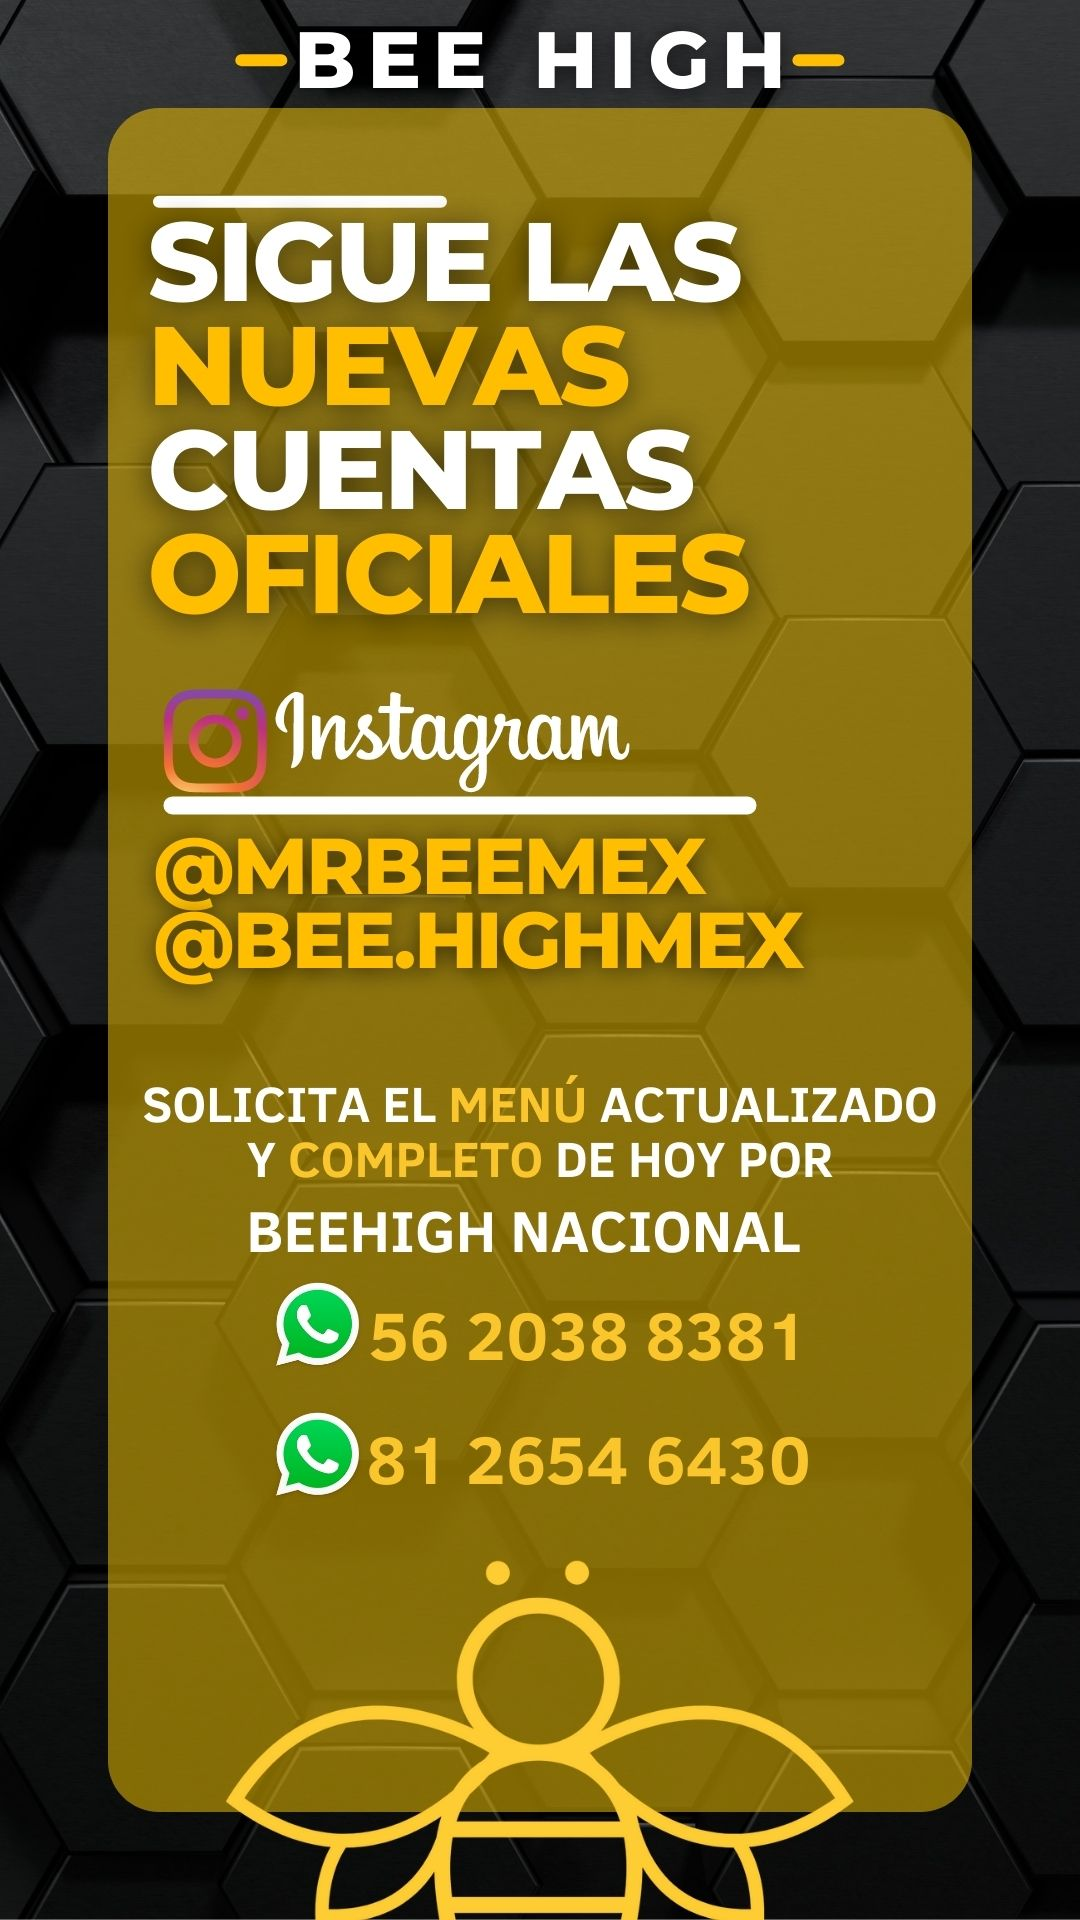
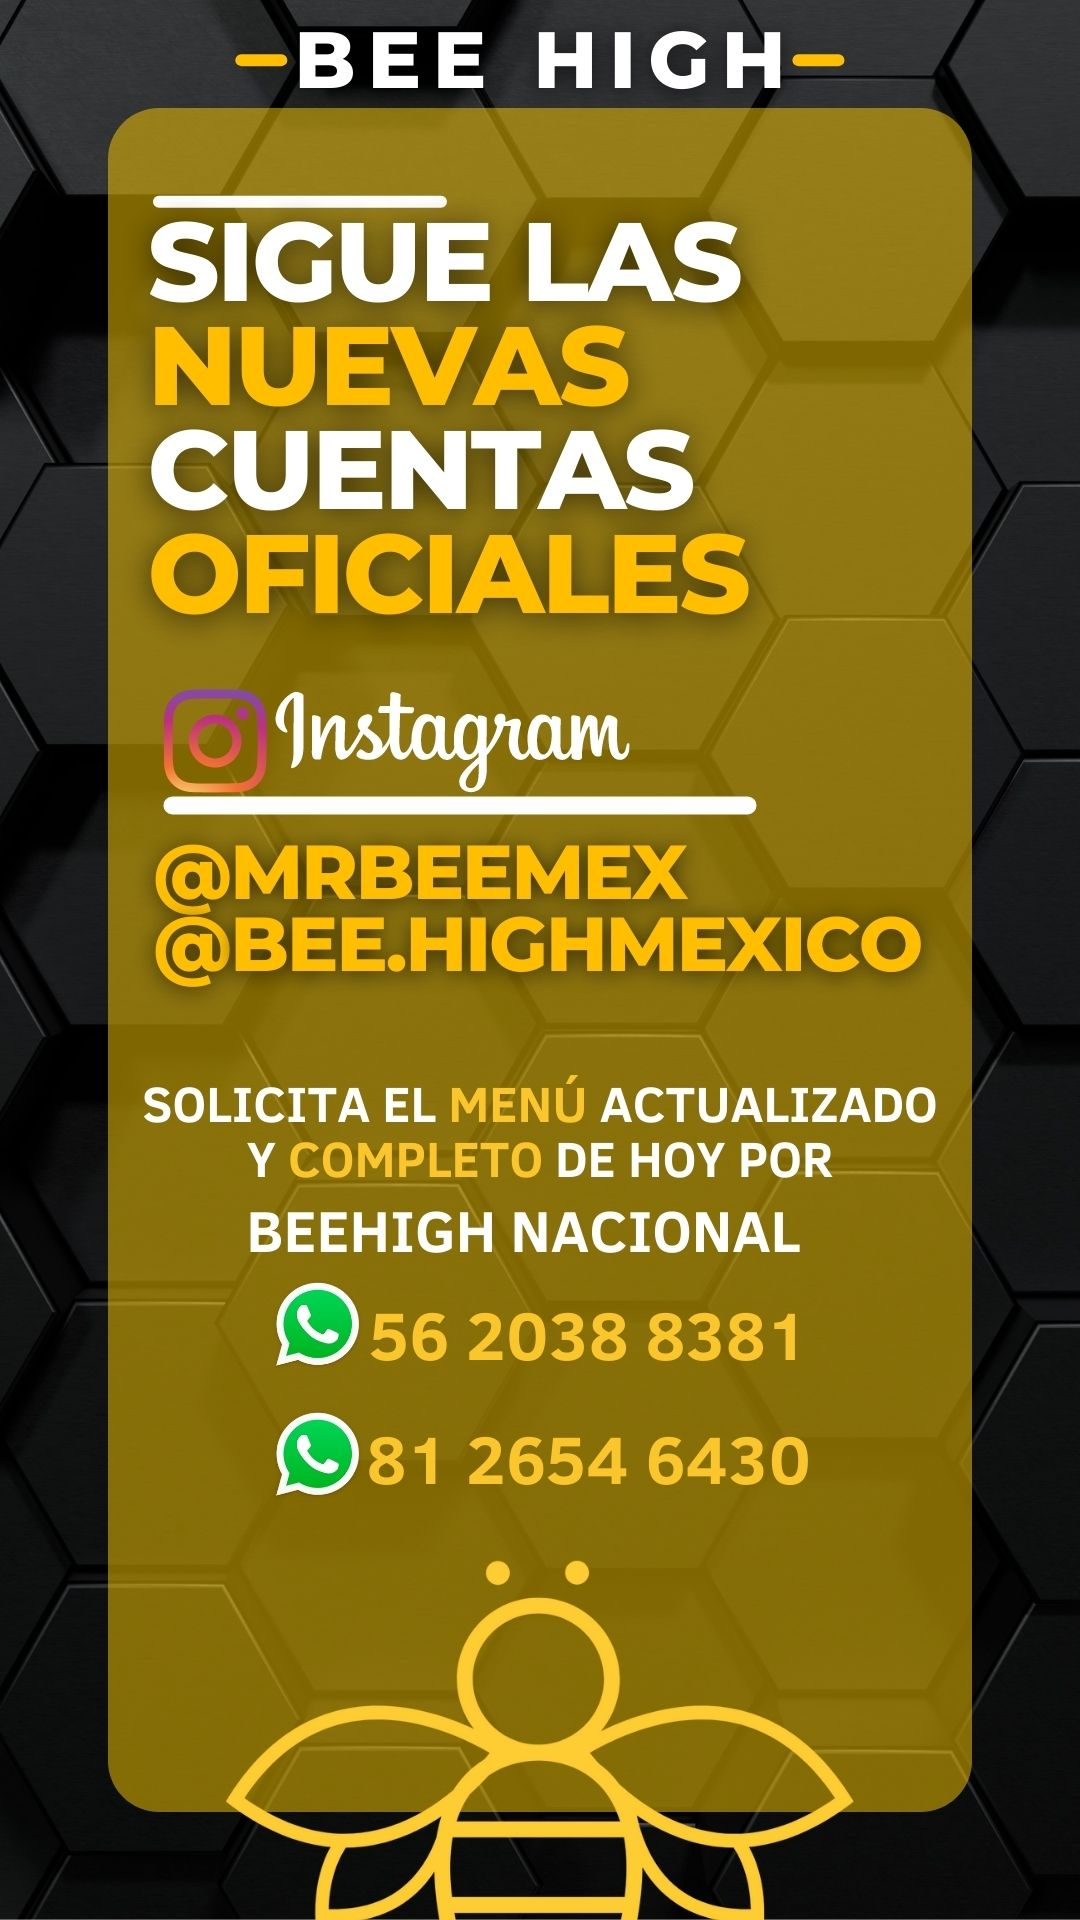
add

Changed region(s): [[0.1528, 0.4375, 0.8556, 0.5312]]

diff --git a/home.html b/home.html
@@ -342,7 +342,7 @@
                     <a href="https://t.me/+cE026hRf1l4wNjcx"target="_blank" ><h3 class="texto-naranja">TELEGRAM INFO</h3><i class="fa-brands fa-telegram"></i></a>
                     <a href="https://www.youtube.com/channel/UCYLG9jkRuTTwDURQVmd6hVA " target="_blank"><h3 class="texto-naranja">YOUTUBE</h3><i class="fa-brands fa-youtube"></i></a>
                     <a href="https://www.instagram.com/mrbeemex/"target="_blank" ><h3 class="texto-naranja">MR.BEE</h3><i class="fa-brands fa-square-instagram"></i></a>
-                    <a href="https://instagram.com/beehigh.mex?igshid=MTIzZWQxMDU="target="_blank" ><h3 class="texto-naranja">INSTAGRAM</h3><i class="fa-brands fa-square-instagram"></i></a>
+                    <a href="https://www.instagram.com/bee.highmexico/"target="_blank" ><h3 class="texto-naranja">INSTAGRAM</h3><i class="fa-brands fa-square-instagram"></i></a>
                     <a href="https://www.facebook.com/bee.high.94?mibextid=ZbWKwL"target="_blank" ><h3 class="texto-naranja">FACEBOOK</h3><i class="fa-brands fa-facebook"></i></a>
                 </div>
                 
